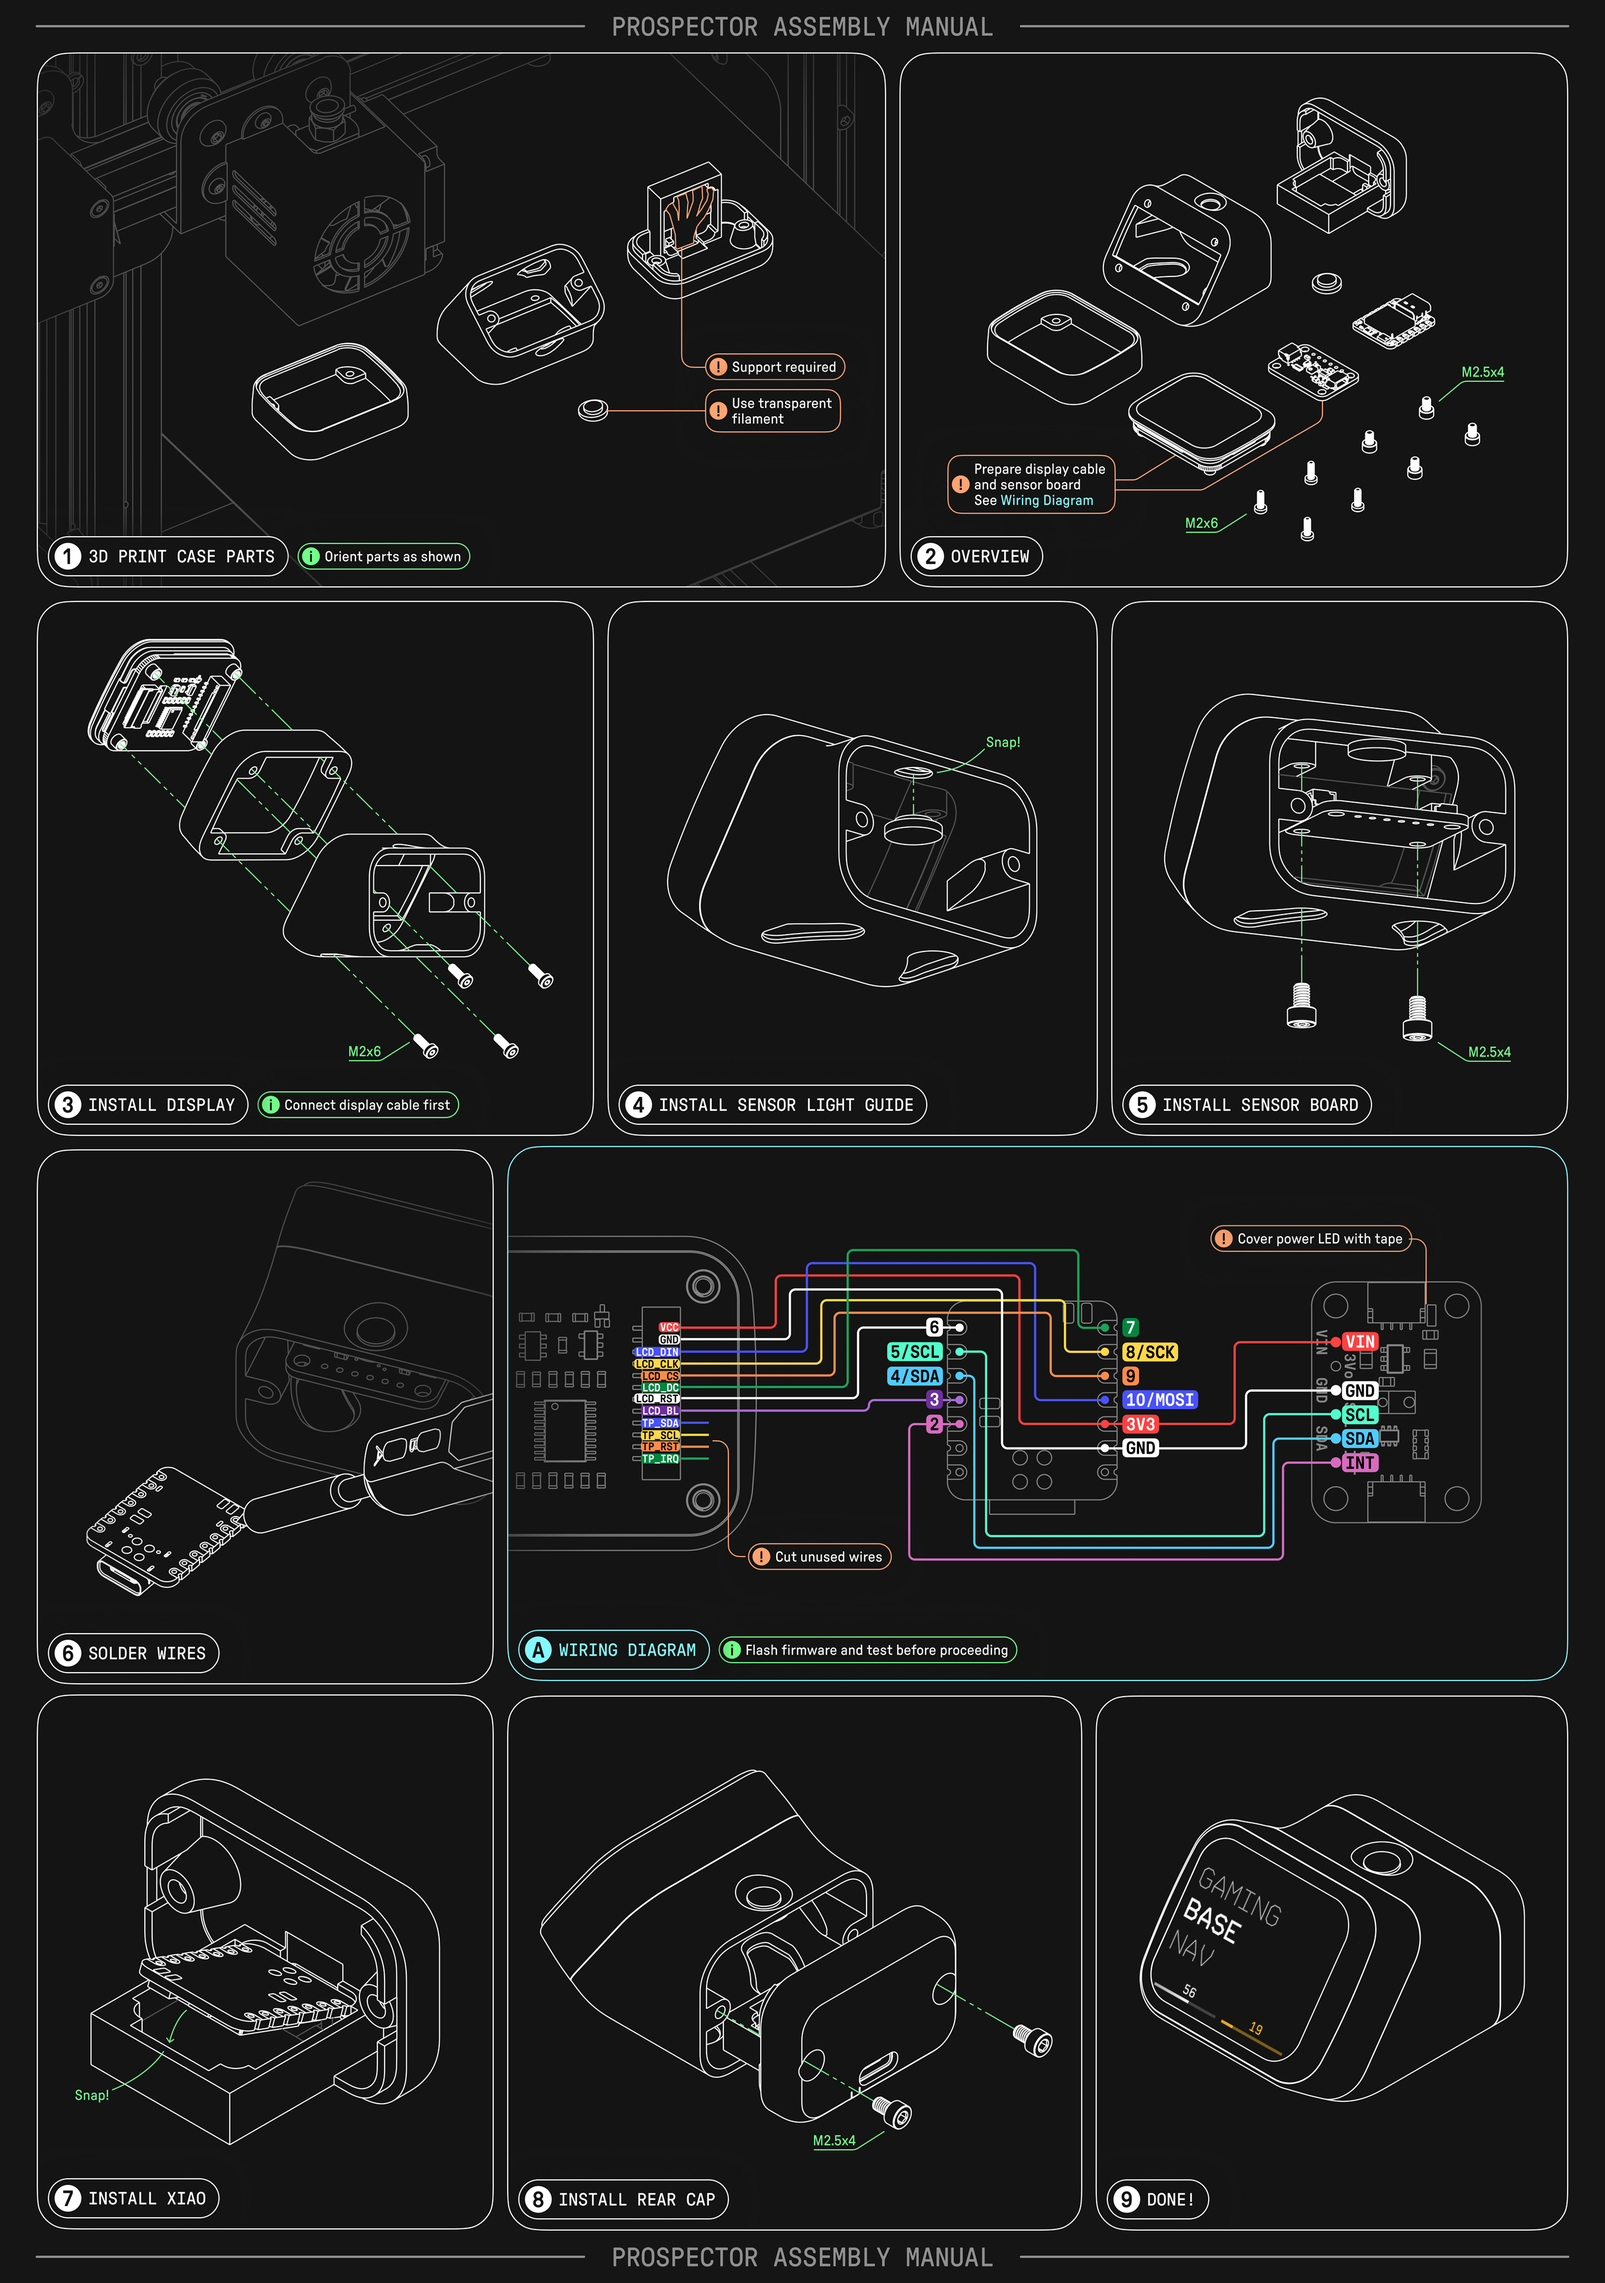
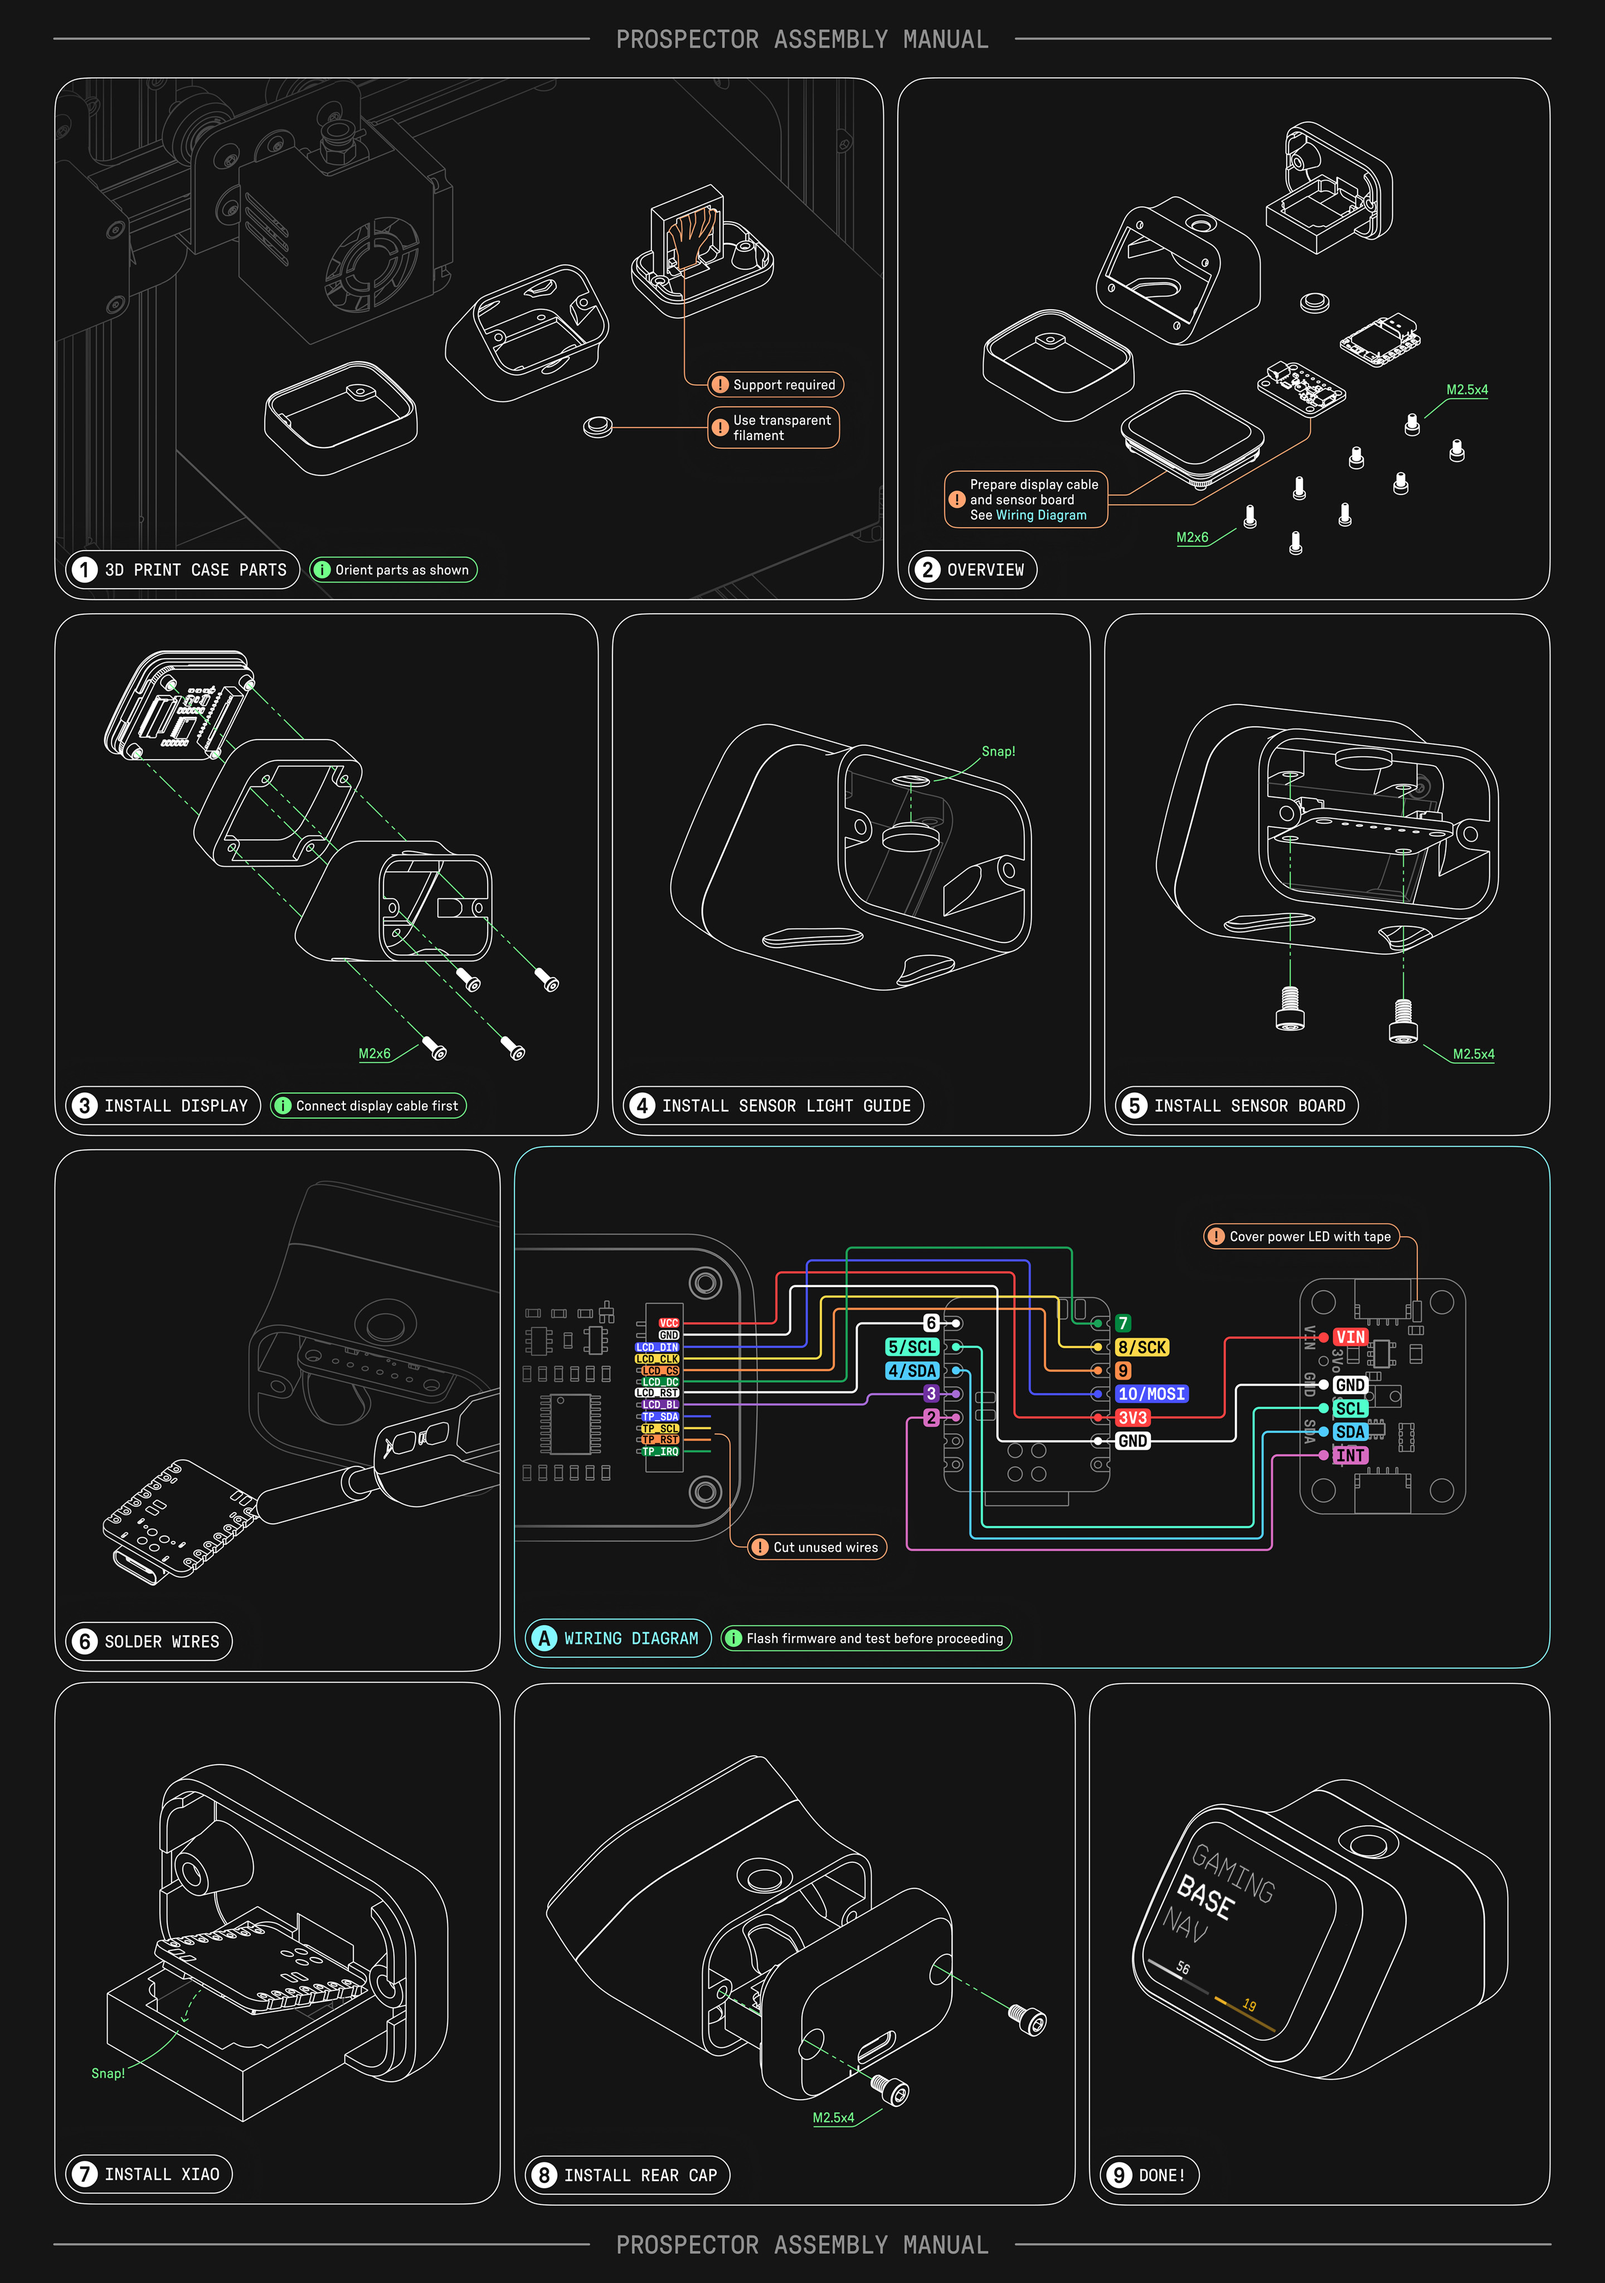
add assembly manual

diff --git a/README.md b/README.md
@@ -4,7 +4,7 @@ Prospector is a desktop ZMK dongle with full color LCD screen.
 
 ![Prospector between split keyboards on white background](/docs/images/prospector_hero.jpg)
 
-Shown here with [Forager](https://github.com/carrefinho/forager).
+Shown here alongside [Forager](https://github.com/carrefinho/forager).
 
 ## Design
 
@@ -29,4 +29,4 @@ Coming Soon™
 
 ## Build Guide
 
-Coming Soon™
+[Find the Assembly Manual here.](/docs/prospector_assembly_manual.jpg)
